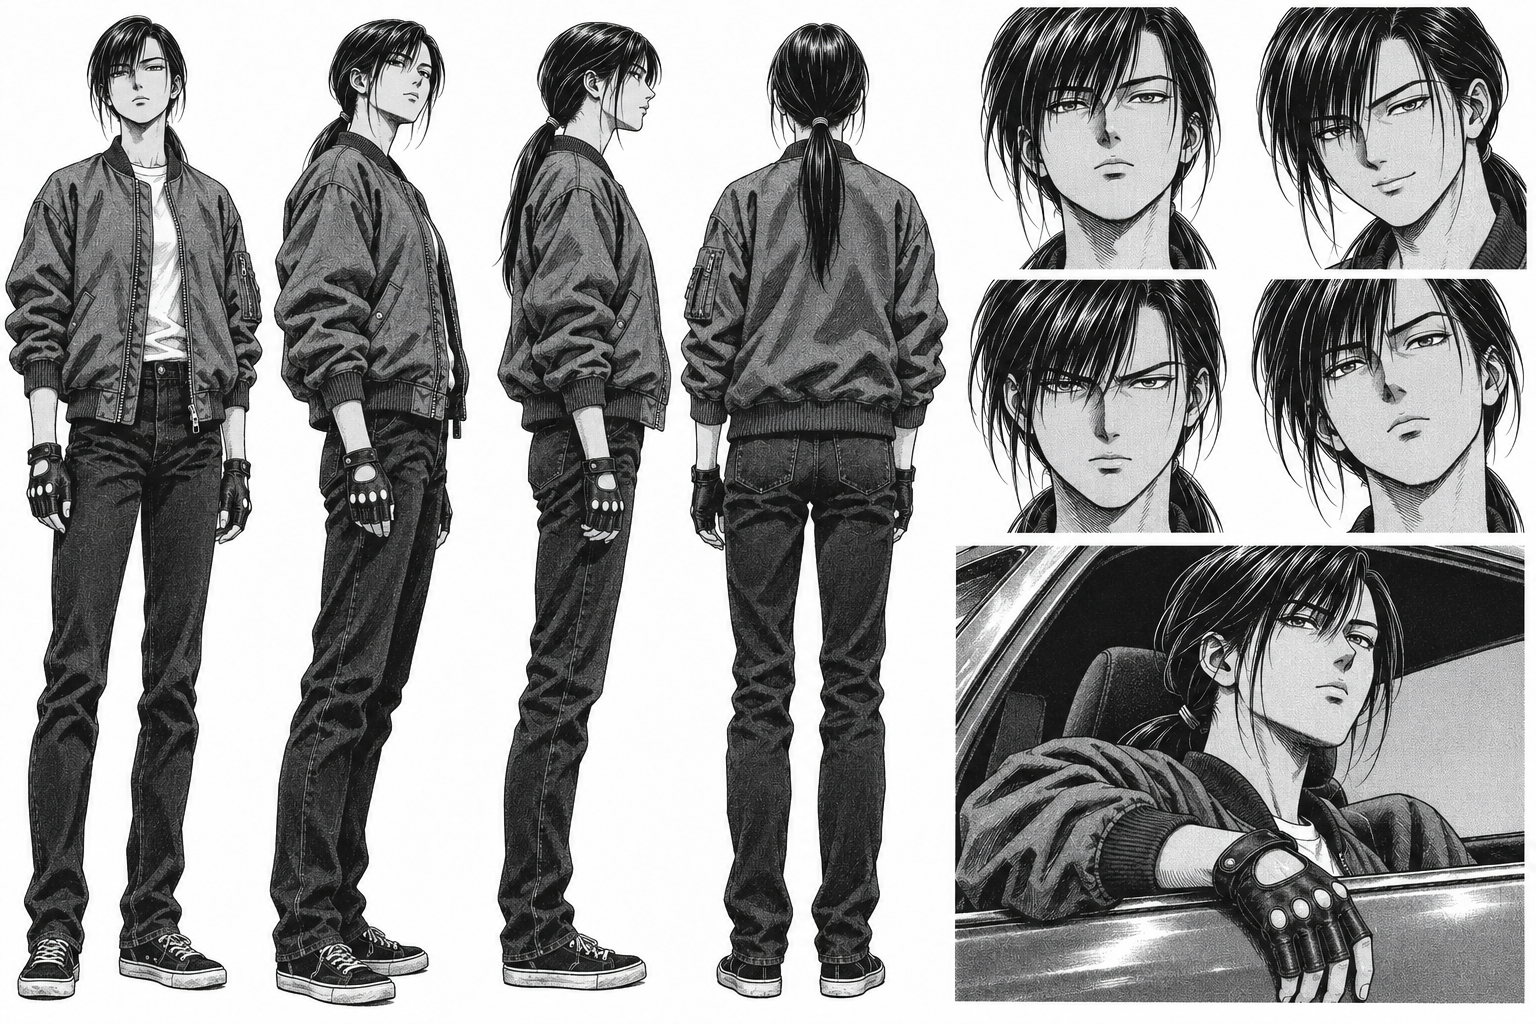
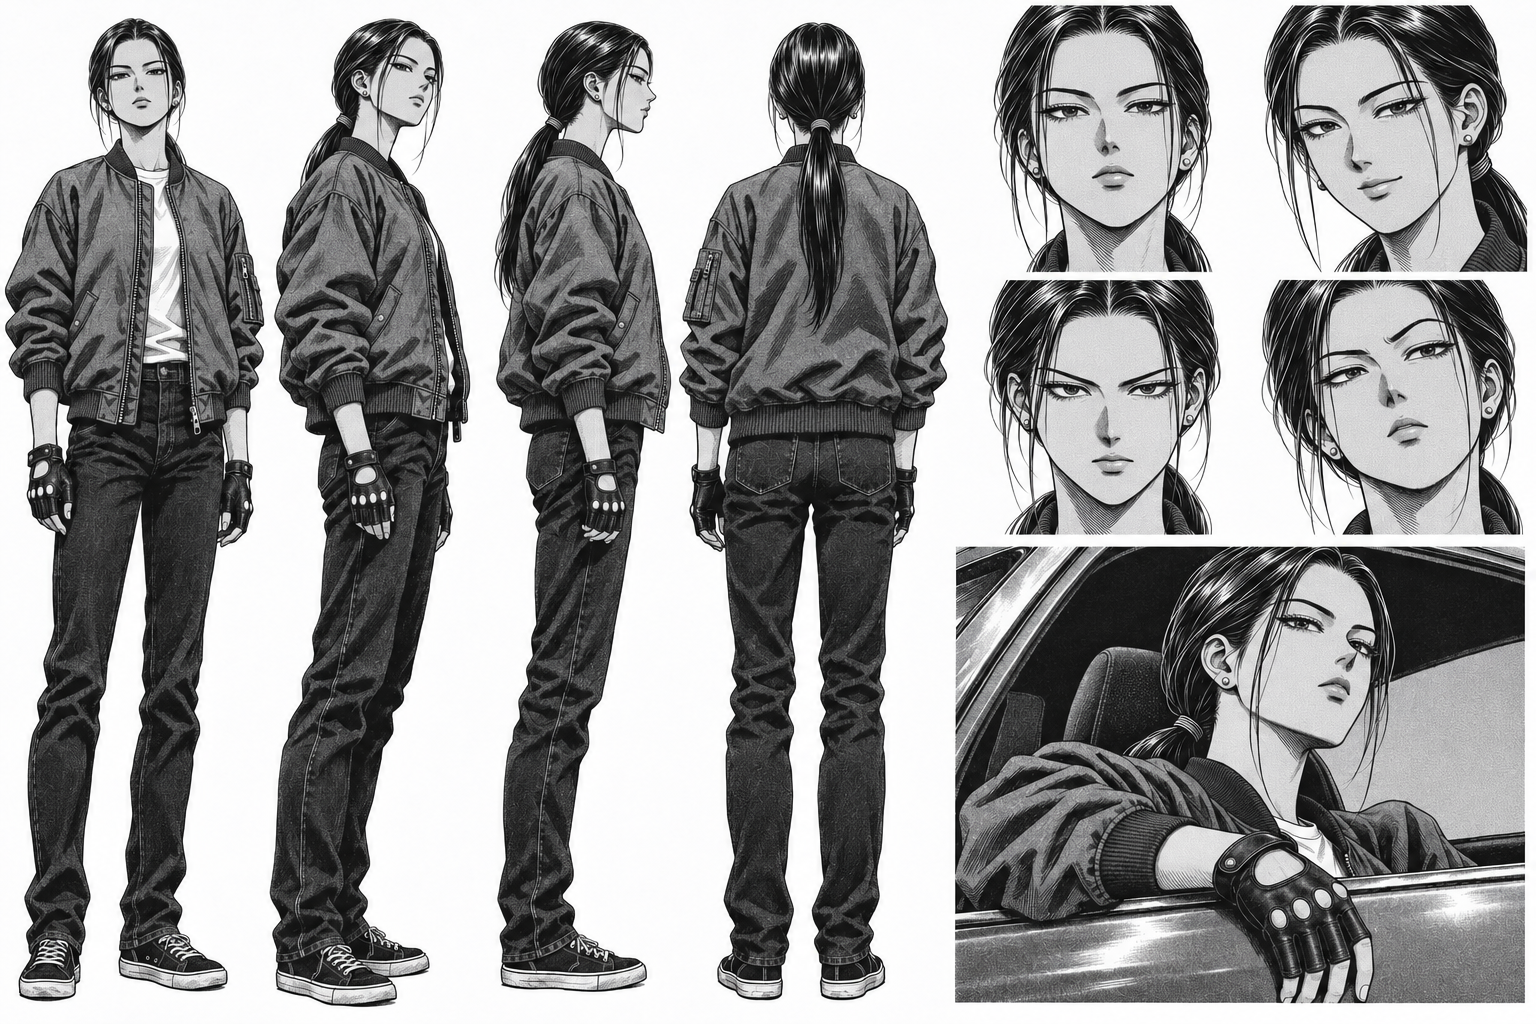
Chapter 2 complete (29 pages); ch1 p13/p20 fixes; split Kubo/Dai sheets
Akane reference sheet, Kubo and uniform sheets, all 29 chapter 2 pages
by GPT-6.1 Terra. Art direction gains rules learned from this chapter
(reference leaks, two-character sheets, speaker swaps, RHD side views).

Changed region(s): [[0.0, 0.0, 1.0, 1.0]]

diff --git a/prompts/art-direction.md b/prompts/art-direction.md
@@ -19,3 +19,8 @@
 - 1995 only: no phones, no modern cars, no LED lights, no modern signage.
 - **Chapter 1: the Roadster's driver is never recognizable.** Cabin in deep shadow / windshield glare; at most gloved hands and a dark silhouette. Image models tend to put the protagonist's face in the driver seat, so say this explicitly in every prompt that shows the car moving.
 - **Safety filter:** a lone, distressed figure gripping a bridge railing at night can be refused as "self-harm". On bridge scenes, put Dai safely on the walkway (tall fences), and spell out the emotion (awe, excitement) rather than "trembling, staring into the distance".
+- **Reference pages leak objects.** A location reference that contains the red Roadster (e.g. ch1 p17) makes the model copy the car into the new page. When the Roadster must NOT be there, say so explicitly ("no small roadster or sports car anywhere").
+- **Speaker swaps.** With two characters in adjacent panels, the model can hand each one the other's line. Put ONLY one named character in each single-speaker panel, describe them by unmistakable traits (old/young, hair), and check every balloon's owner on review.
+- **Never use a two-character reference sheet.** `kubo-station-uniform.png` (Kubo + Dai on one sheet) made the model swap their faces on 8 pages. Use the split sheets `character-sheets/kubo.png` and `character-sheets/dai-uniform.png`, pass only the sheets for characters on that page, and spell out each character's unmistakable traits (age, hair, how the shirt is worn).
+- **Approved neighbour pages make good references.** For scenes that span pages (e.g. ch2 p20-27), pass an approved page from the same scene so lighting, faces and setting carry over.
+- **Right-hand drive in side views.** "Right-hand drive" alone doesn't stick. In a side view with the driver at the near window, state the direction: the car's FRONT points to the LEFT edge of the panel (so we see its right/driver side).

diff --git a/artwork/PROVENANCE.md b/artwork/PROVENANCE.md
@@ -9,3 +9,8 @@ All images generated by **GPT-6.1 Terra** (Codex built-in image generation, medi
 | character-sheets/hayama-family.png | 2026-11-14 | none | approved | Michiko, Aya, Sota |
 | character-sheets/goto-silvia.png | 2026-11-14 | none | approved | S13 with fixed headlights, wing |
 | pages/chapter-001/page-01 … page-20 (19 images) | 2026-11-14 | reference sheets above, plus earlier pages for location continuity | approved (pilot) | p07 redrawn: driver looked like Dai. p11 retried: first prompt refused by the self-harm filter. Known nits: p13 last panel Silvia faces camera; p20 last panel shows a duplicate gas station in the distance; p11 road narrower than earlier pages. |
+| character-sheets/akane.png | 2026-11-14 | dai.png (style), v1 sheet | approved | v1 redrawn: looked too much like Dai |
+| character-sheets/kubo-station-uniform.png | 2026-11-14 | ch1 p20, dai.png | superseded | Two characters on one sheet caused face swaps; use the split sheets below |
+| character-sheets/kubo.png, dai-uniform.png | 2026-11-14 | crops of the sheet above | approved | One character per sheet |
+| pages/chapter-001/page-13, page-20 | 2026-11-14 | previous versions | approved | Fixed: Silvia now drives away; duplicate gas station removed |
+| pages/chapter-002/page-01 … page-29 | 2026-11-14 | sheets above + approved neighbour pages | approved | Redrawn: p06/p09/p10 (Roadster leaked in from location ref), p11 (speakers swapped), p14-19/21/26/28 (Kubo/Dai face swap), p27 (driver side, duplicate car) |

diff --git a/reviews/chapter-002.md b/reviews/chapter-002.md
@@ -1,0 +1,15 @@
+# Chapter 2 review
+
+Build: `./tools-build.sh 002` -> `build/akai-zanzo-ch002.{cbz,pdf}`.
+
+## Problems found and fixed
+- **Roadster leaking into scenes** (p06, p09, p10): the ch1 p17 location reference contains the car, so the model copied it. Fixed with edits; rule added.
+- **Kubo/Dai face swap** (p14-19, p21, p26, p28): caused by one reference sheet showing both men. Split into `kubo.png` and `dai-uniform.png`; rule added.
+- **Swapped dialogue** (p11): fixed by putting one speaker per panel.
+- **Driver on wrong side** (p26, p27): fixed by stating the car's facing direction explicitly.
+- **Akane looked like Dai** (sheet v1): redrawn with a distinct face and center-parted hair.
+
+## Kept nits
+- p10: the leaving sedan looks like it faces the camera.
+- p22: fuel door on the car's left (real NA: right rear).
+- p27: Dai stands in front of the rear wheel.
